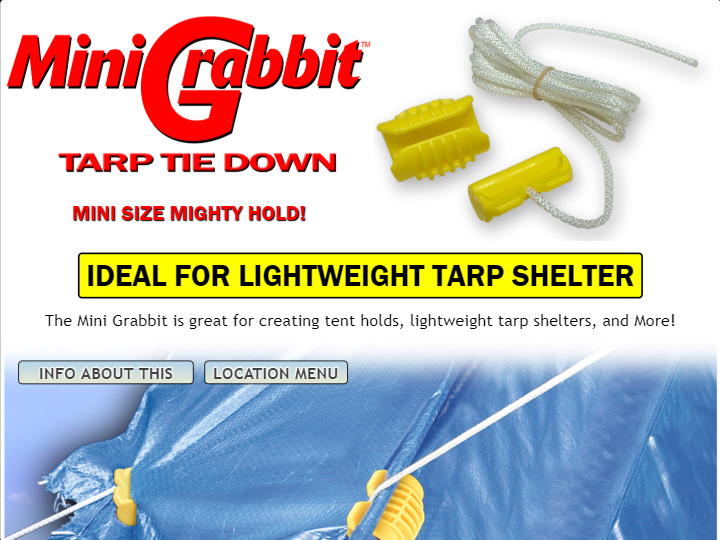
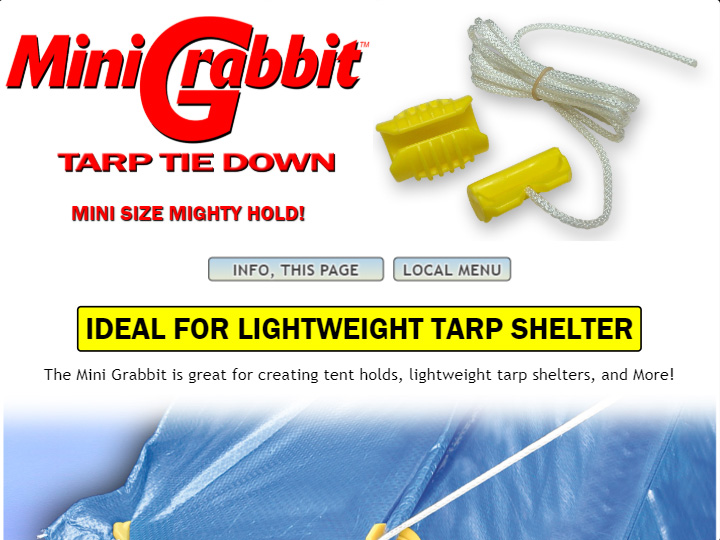
Moved the About and Local Menu buttons higherup on the pages

diff --git a/components/components08_11/tmpl_08/viewTmpl_08.html b/components/components08_11/tmpl_08/viewTmpl_08.html
@@ -50,6 +50,11 @@ color:blue;
             </td>
         </tr>
     </table>
+    <div data-ui-view="childView1" 
+         title="This Read About has a link to Tent Pole pages"
+         style="text-align:center; margin:2vh auto 2vh auto;">
+                This shows the "Read about" and "Navigation menu" buttons. If you read this it's not working
+   </div>
    
 <!-- Response Section 2 ************************************************************************************************************************************************--> 
     <div style="text-align:center;">
@@ -61,8 +66,8 @@ color:blue;
                     padding:5px 8px;
                     border:2px solid black;
                     border-radius:5px;
-                    {{$ctrl.rs2fontsize2}};        /* AR_2_0.75 */
-                    {{$ctrl.rs2marginbottom1}};  /* AR_80_30 */
+                    {{$ctrl.rs2fontsize2}};        
+                    /*{{$ctrl.rs2marginbottom1}};  */
                    ">
             POLES FOR YOUR TENT AND OTHER POSSIBILITIES
         </div>
@@ -75,20 +80,9 @@ color:blue;
             <img    src="components/components08_11/tmpl_08/ttd-vn-tp-presentation5-2540x375.jpg" 
                     alt="Tent Pole" 
                     title="Tent Pole" 
-                    style= "width:90%; {{$ctrl.rs3margintop1}};"> 
+                    style= "width:90%; {{$ctrl.rs3margintop1}}; margin-top:3vh;"> 
         </div>
-        
-        <div style="position:absolute; top:-2.5vh; left:7%; width:100%; z-index:3;"> 
-            <div data-ui-view="childView1" 
-                     title="This Read About has a link to Tent Pole pages"
-                     style="margin:1vh auto;">
-                            This shows the "Read about" and "Navigation menu" buttons. If you read this it's not working
-            </div>
             
-            </div>
-        </div>
-    </div>
-
     <table style="margin-left:auto; margin-right:auto;">
         <tr>
              
@@ -105,7 +99,6 @@ color:blue;
                         style="width:100%; border:2px solid black;"> 
             </td>
           
-            </td>
         </tr>
     </table>
 </div> 

diff --git a/components/components04_07/tmpl_07/viewTmpl_07.html b/components/components04_07/tmpl_07/viewTmpl_07.html
@@ -49,6 +49,11 @@ color:blue;
             </td>
         </tr>
     </table>
+    <div data-ui-view="childView1" 
+         title="This Read About has a link to Carry Bag pages"
+         style="text-align:center; margin:2vh auto 1.5vh auto;">
+               This shows the "Read about" and "Navigation menu" buttons. If you read this it's not working
+    </div>
    
 <!-- AR Response Section 2 ************************************************************************************************************************************************-->
     <div style="text-align:center;">
@@ -69,19 +74,10 @@ color:blue;
     
 <!-- AR Response Section 3 ************************************************************************************************************************************************-->
     <div style="position:relative; top:5.0vh">
-        
         <img    src="components/components04_07/tmpl_07/ttd-vn-cb-presentation1-1450x550.jpg" 
                 alt="Tarp Tie Down's Carry Bag Image" 
                 title="Tarp Tie Down's Carry Bag" 
                 style="position:absolute; top:0px; left:0px; width:100%;"> 
-        
-        <div style="position:absolute; {{$ctrl.rs3top1}}; left:2%; width:100%; z-index:3;"> 
-            <div data-ui-view="childView1" 
-                     title="This Read About has a link to Carry Bag pages"
-                     style="margin:1vh auto;">
-                            This shows the "Read about" and "Navigation menu" buttons. If you read this it's not working
-            </div>
-        </div>    
     </div>
 </div> 
 

diff --git a/components/components00_03/tmpl_02/viewTmpl_02.html b/components/components00_03/tmpl_02/viewTmpl_02.html
@@ -30,6 +30,12 @@
             </td>
         </tr>
     </table>
+    
+    <div data-ui-view="childView1" 
+         title="This Read About has a link to Mini Grabbit pages"
+         style="text-align:center; margin:1vh auto 2vh auto;">
+                This shows the "Read about" and "Navigation menu" buttons. If you read this it's not working
+    </div>
 
 <!-- Response Section 2 ************************************************************************************************************************************************-->
     <div style="text-align:center;">
@@ -58,19 +64,10 @@
 
 <!-- Response Section 4 ************************************************************************************************************************************************-->
     <div style="position:relative;">
-        
         <img    src="components/components00_03/tmpl_02/ttd-vn-mg-arc-1200x935-featherd-top.jpg" 
                 alt="Mini Grabbit Tarp Tie Down Presentation" 
                 title="Mini Grabbit Presentation" 
                 style="position:absolute; top:0px; left:0px; width:100%;"> 
-        
-        <div style="margin-top:1.0vh; position:absolute; top:0px; left:2%; width:100%;">  
-            <div data-ui-view="childView1" 
-                 title="This Read About has a link to Mini Grabbit pages"
-                 style="margin:1vh auto;">
-                        This shows the "Read about" and "Navigation menu" buttons. If you read this it's not working
-            </div>
-        </div>
     </div>
 </div> 
 

diff --git a/components/components04_07/tmpl_06/viewTmpl_06.html b/components/components04_07/tmpl_06/viewTmpl_06.html
@@ -47,6 +47,11 @@
             </td>
         </tr>
     </table>
+    <div data-ui-view="childView1" 
+        title="This Read About has a link to Keeper pages"
+        style="text-align:center; margin:2vh auto 2vh auto;">
+               This shows the "Read about" and "Navigation menu" buttons. If you read this it's not working
+   </div>
 
 <!-- AR Response Section 2 ************************************************************************************************************************************************-->
     <div style="text-align:center;">
@@ -67,19 +72,10 @@
     
 <!-- AR Response Section 3 ************************************************************************************************************************************************-->
     <div style="position:relative;">
-        
         <img    src="components/components04_07/tmpl_06/ttd-vn-kpr-app1-1200x1050.jpg" 
                 alt="Keeper Application" 
                 title="Keeper Application" 
                 style="position:absolute; top:0px; left:0px; width:100%;"> 
-        
-        <div style="position:absolute; {{$ctrl.rs3top1}}; left:2%; width:100%; z-index:3;">  
-            <div data-ui-view="childView1" 
-                 title="This Read About has a link to Keeper pages"
-                 style="margin:1vh auto;">
-                        This shows the "Read about" and "Navigation menu" buttons. If you read this it's not working
-            </div>
-        </div>
     </div>
 </div> 
 

diff --git a/components/components04_07/tmpl_04/viewTmpl_04.html b/components/components04_07/tmpl_04/viewTmpl_04.html
@@ -21,6 +21,11 @@
             </td>
         </tr>
     </table>
+    <div data-ui-view="childView1" 
+         title="This Read About has a link to RockBuster pages"
+         style="text-align:center; margin:2vh auto 2vh auto;;">
+                This shows the "Read about" and "Navigation menu" buttons. If you read this it's not working
+    </div>
 
 <!-- AR Response Section 2 ************************************************************************************************************************************************-->
     <div style="text-align:center">
@@ -52,14 +57,7 @@
                 alt="RockBuster Application" 
                 title="RockBuster Application" 
                 style="position:absolute; top:0px; left:0px; width:100%;"> 
-        
-        <div style="position:absolute; top:3.0vh; left:2%; width:100%; z-index:3;">  
-            <div data-ui-view="childView1" 
-                 title="This Read About has a link to RockBuster pages"
-                 style="margin:1vh auto;">
-                        This shows the "Read about" and "Navigation menu" buttons. If you read this it's not working
-            </div>
-        </div>    
+          
 <!-- AR Response Section 4 ************************************************************************************************************************************************-->            
         <div class="textStyle2 textShadow1" 
              style="position:absolute; 

diff --git a/components/components00_03/tmpl_01/viewTmpl_01.html b/components/components00_03/tmpl_01/viewTmpl_01.html
@@ -28,6 +28,12 @@ color:blue;
     </table>
     
 <!-- Response Section 2 ************************************************************************************************************************************************-->
+    <div data-ui-view="childView1" 
+         title="This Read About has a link to Long Grabbit pages"
+         style="text-align:center; margin:1vh auto 1vh auto;">
+                This shows the "Read about" and "Navigation menu" buttons. If you read this it's not working
+    </div>    
+
     <div class="textStyle2"
          style="text-align:center;
                 color:red; 
@@ -36,6 +42,7 @@ color:blue;
                 ">
         500mm of pure holding power!
     </div>
+    
     <div style="text-align:center;">
         <div class="textStyle2"
              style="display:inline-block;
@@ -69,14 +76,6 @@ color:blue;
                 alt="EZ Grabbit Tarp Tie Down Presentation" 
                 title="Long Grabbit Presentation" 
                 style=" width:100%;"> 
-        
-        <div style="position:absolute; top:3.0vh; left:2%; width:100%;">  
-            <div data-ui-view="childView1" 
-                 title="This Read About has a link to Long Grabbit pages"
-                 style="margin:1vh auto;">
-                        This shows the "Read about" and "Navigation menu" buttons. If you read this it's not working
-            </div>
-        </div>
     </div>
 </div> 
 

diff --git a/components/components00_03/tmpl_00/viewTmpl_00.html b/components/components00_03/tmpl_00/viewTmpl_00.html
@@ -9,6 +9,12 @@
                          style=" width:90%;"> 
     </div> 
     <div class="textStyle1" style="{{$ctrl.rs1fontsize1}}; text-align:center;">Superior Performance and Versatility</div>
+    <div 
+        data-ui-view="childView1" 
+        title="This Read About has a link to EZ Grabbit pages"
+        style="text-align:center; margin:1vh auto;">
+               This shows the "Read about" and "Navigation menu" buttons. If you read this it's not working
+   </div>
     
 <!-- Response Section 2 ************************************************************************************************************************************************-->
     <table  style=" width:100%; 
@@ -44,13 +50,5 @@
                 alt="EZ Grabbit Tarp Tie Down's four feature capabilities." 
                 title="EZ Grabbit Tarp Tie Down's four feature capabilities." 
                 style= "width:99%; border:2px solid black; border-radius:7px;">  
- 
-        <div style="margin-top:1.0vh; position:absolute; top:0px; left:2%; width:100%;">  
-            <div data-ui-view="childView1" 
-                 title="This Read About has a link to EZ Grabbit pages"
-                 style="margin:1vh auto;">
-                        This shows the "Read about" and "Navigation menu" buttons. If you read this it's not working
-            </div>
-        </div>    
     </div>    
 </div>

diff --git a/components/components04_07/tmpl_05/viewTmpl_05.html b/components/components04_07/tmpl_05/viewTmpl_05.html
@@ -34,6 +34,11 @@ color:blue;
             </td>
         </tr>
     </table>
+    <div data-ui-view="childView1" 
+         title="This Read About has a link to Bag Grabbit pages"
+         style="text-align:center; margin:2vh auto 2vh auto;">
+                This shows the "Read about" and "Navigation menu" buttons. If you read this it's not working
+    </div>
 
 <!-- AR Response Section 2 ************************************************************************************************************************************************-->
     <div style="text-align:center;">
@@ -66,13 +71,6 @@ color:blue;
                 title="Bag Grabbit Application" 
                 style="position:absolute; top:0px; left:0px; width:100%;"> 
         
-        <div style="position:absolute; top:1.5vh; left:2%; width:100%; z-index:3;">  
-            <div data-ui-view="childView1" 
-                 title="This Read About has a link to Bag Grabbit pages"
-                 style="margin:1vh auto;">
-                        This shows the "Read about" and "Navigation menu" buttons. If you read this it's not working
-            </div>
-        </div>
         <div id="div4" 
             class="textStyle2 textShadow1" 
             style="position:absolute; 

diff --git a/components/components00_03/tmpl_03/viewTmpl_03.html b/components/components00_03/tmpl_03/viewTmpl_03.html
@@ -32,6 +32,11 @@
             </td>
         </tr>
     </table>
+    <div data-ui-view="childView1" 
+         title="This Read About has a link to EZ Adjust pages"
+         style="text-align:center; margin:1vh auto 2vh auto;">
+                This shows the "Read about" and "Navigation menu" buttons. If you read this it's not working
+    </div>
 
 <!-- AR Response Section 2 ************************************************************************************************************************************************-->
     <div style="text-align:center;">
@@ -64,14 +69,6 @@
                 alt="EZ Adjust Rope Adjuster Application Presentation" 
                 title="EZ Adjust Rope Adjuster Application Presentation" 
                 style="position:absolute; top:0px; left:0px; width:100%;"> 
-        
-        <div style="margin-top:1.0vh; position:absolute; top:0px; left:2%; width:100%;">  
-            <div data-ui-view="childView1" 
-                 title="This Read About has a link to EZ Adjust pages"
-                 style="margin:1vh auto;">
-                        This shows the "Read about" and "Navigation menu" buttons. If you read this it's not working
-            </div>
-        </div>
     </div>
 </div> 
 

diff --git a/components/components08_11/tmpl_09/viewTmpl_09.html b/components/components08_11/tmpl_09/viewTmpl_09.html
@@ -25,6 +25,11 @@
             </div>
         </div>
     </div> 
+    <div data-ui-view="childView1" 
+            title="This Read About has a link to EZ Grabbit pages"
+            style="text-align:center; margin:1vh auto 2vh auto;">
+                   This shows the "Read about" and "Navigation menu" buttons. If you read this it's not working
+    </div>
     <div class="textStyle1" 
          style="{{$ctrl.rs1fontsize1}};             /* AR_3.00_1.09 */
                 text-align:center;
@@ -85,14 +90,5 @@
                 alt="EZ Grabbit Tarp Tie Down Composite with Keebler Pass background" 
                 title="Classic EZ Grabbit with a background of Keebler Pass near Crested Butte, Colorado" 
                 style=" width:100%;"> 
-        
-        
-        <div style="position:absolute; top:1.5vh; left:2%; width:100%; z-index:3;"> 
-            <div data-ui-view="childView1" 
-                     title="This Read About has a link to EZ Grabbit pages"
-                     style="margin:1vh auto;">
-                            This shows the "Read about" and "Navigation menu" buttons. If you read this it's not working
-            </div>
-        </div>
     </div>
 </div>
